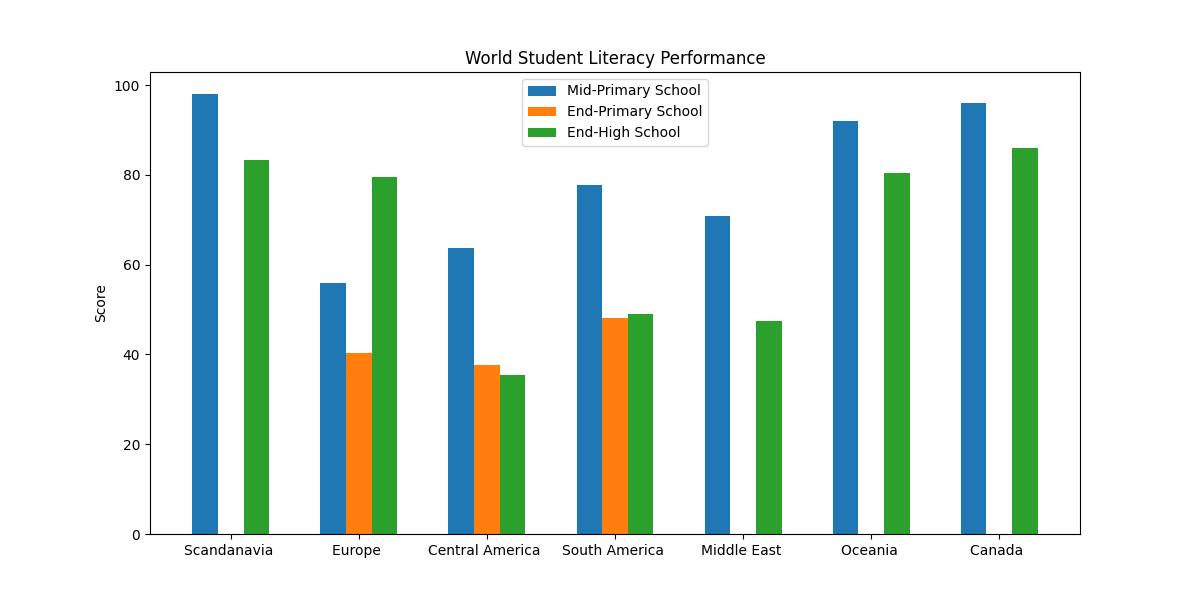
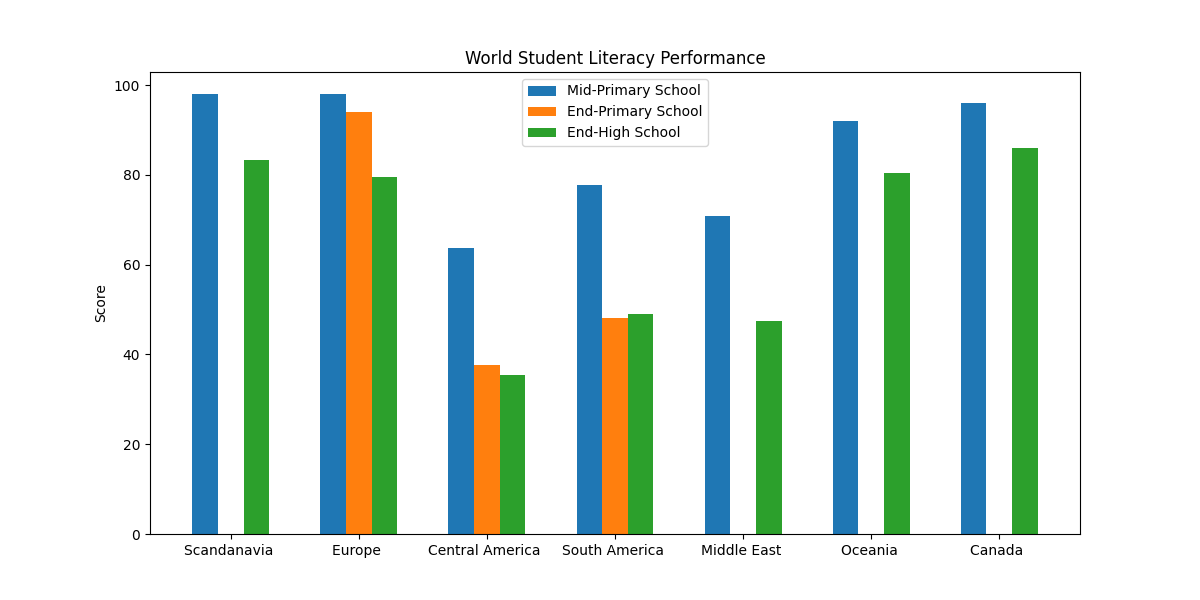
9/8

Changed region(s): [[0.2467, 0.15, 0.3083, 0.6]]

diff --git a/visualisations.py b/visualisations.py
@@ -289,106 +289,101 @@ values4_can = df.iloc[rows_can, 6].iloc[0]  # scalar
 # ------ AVG REGIONAL SCORES 
 
 # SCANDANAVIA
-total_values1_scan = values1_scan.sum()
-country_count = len(rows_scan)
-avg_total_values1_scan = total_values1_scan / country_count
+values1_scan_clean = values1_scan.replace(0, np.nan)
+avg_total_values1_scan = values1_scan_clean.mean(skipna=True)
 
-total_values2_scan = values2_scan.sum()
-avg_total_values2_scan = total_values2_scan / country_count
+values2_scan_clean = values2_scan.replace(0, np.nan)
+avg_total_values2_scan = values2_scan_clean.mean(skipna=True)
 
-total_values3_scan = values3_scan.sum()
-avg_total_values3_scan = total_values3_scan / country_count
+values3_scan_clean = values3_scan.replace(0, np.nan)
+avg_total_values3_scan = values3_scan_clean.mean(skipna=True)
 
-total_values4_scan = values4_scan.sum()
-avg_total_values4_scan = total_values4_scan / country_count
+values4_scan_clean = values4_scan.replace(0, np.nan)
+avg_total_values4_scan = values4_scan_clean.mean(skipna=True)
 
 # EUROPE
-total_values1_eu = values1_eu.sum()
-country_count = len(rows_eu)
-avg_total_values1_eu = total_values1_eu / country_count
 
-total_values2_eu = values2_eu.sum()
-avg_total_values2_eu = total_values2_eu / country_count
+values1_eu_clean = values1_eu.replace(0, np.nan)
+avg_total_values1_eu = values1_eu_clean.mean(skipna=True)
 
-total_values3_eu = values3_eu.sum()
-avg_total_values3_eu = total_values3_eu / country_count
+values2_eu_clean = values2_eu.replace(0, np.nan)
+avg_total_values2_eu = values2_eu_clean.mean(skipna=True)
 
-total_values4_eu = values4_eu.sum()
-avg_total_values4_eu = total_values4_eu / country_count
+values3_eu_clean = values3_eu.replace(0, np.nan)
+avg_total_values3_eu = values3_eu_clean.mean(skipna=True)
 
-total_values5_eu = values5_eu.sum()
-avg_total_values5_eu = total_values5_eu / country_count
+values4_eu_clean = values4_eu.replace(0, np.nan)
+avg_total_values4_eu = values4_eu_clean.mean(skipna=True)
 
-total_values6_eu = values6_eu.sum()
-avg_total_values6_eu = total_values6_eu / country_count
+values5_eu_clean = values5_eu.replace(0, np.nan)
+avg_total_values5_eu = values5_eu_clean.mean(skipna=True)
+
+values6_eu_clean = values6_eu.replace(0, np.nan)
+avg_total_values6_eu = values6_eu_clean.mean(skipna=True)
 
 # CENTRAL AMERICA
-total_values1_ca = values1_ca.sum()
-country_count = len(rows_ca)
-avg_total_values1_ca = total_values1_ca / country_count
+values1_ca_clean = values1_ca.replace(0, np.nan)
+avg_total_values1_ca = values1_ca_clean.mean(skipna=True)
 
-total_values2_ca = values2_ca.sum()
-avg_total_values2_ca = total_values2_ca / country_count
+values2_ca_clean = values2_ca.replace(0, np.nan)
+avg_total_values2_ca = values2_ca_clean.mean(skipna=True)
 
-total_values3_ca = values3_ca.sum()
-avg_total_values3_ca = total_values3_ca / country_count
+values3_ca_clean = values3_ca.replace(0, np.nan)
+avg_total_values3_ca = values3_ca_clean.mean(skipna=True)
 
-total_values4_ca = values4_ca.sum()
-avg_total_values4_ca = total_values4_ca / country_count
+values4_ca_clean = values4_ca.replace(0, np.nan)
+avg_total_values4_ca = values4_ca_clean.mean(skipna=True)
 
-total_values5_ca = values5_ca.sum()
-avg_total_values5_ca = total_values5_ca / country_count
+values5_ca_clean = values5_ca.replace(0, np.nan)
+avg_total_values5_ca = values5_ca_clean.mean(skipna=True)
 
-total_values6_ca = values6_ca.sum()
-avg_total_values6_ca = total_values6_ca / country_count
+values6_ca_clean = values6_ca.replace(0, np.nan)
+avg_total_values6_ca = values6_ca_clean.mean(skipna=True)
 
 # SOUTH AMERICA
-total_values1_sa = values1_sa.sum()
-country_count = len(rows_sa)
-avg_total_values1_sa = total_values1_sa / country_count
+values1_sa_clean = values1_sa.replace(0, np.nan)
+avg_total_values1_sa = values1_sa_clean.mean(skipna=True)
 
-total_values2_sa = values2_sa.sum()
-avg_total_values2_sa = total_values2_sa / country_count
+values2_sa_clean = values2_sa.replace(0, np.nan)
+avg_total_values2_sa = values2_sa_clean.mean(skipna=True)
 
-total_values3_sa = values3_sa.sum()
-avg_total_values3_sa = total_values3_sa / country_count
+values3_sa_clean = values3_sa.replace(0, np.nan)
+avg_total_values3_sa = values3_sa_clean.mean(skipna=True)
 
-total_values4_sa = values4_sa.sum()
-avg_total_values4_sa = total_values4_sa / country_count
+values4_sa_clean = values4_sa.replace(0, np.nan)
+avg_total_values4_sa = values4_sa_clean.mean(skipna=True)
 
-total_values5_sa = values5_sa.sum()
-avg_total_values5_sa = total_values5_sa / country_count
+values5_sa_clean = values5_sa.replace(0, np.nan)
+avg_total_values5_sa = values5_sa_clean.mean(skipna=True)
 
-total_values6_sa = values6_sa.sum()
-avg_total_values6_sa = total_values6_sa / country_count
+values6_sa_clean = values6_sa.replace(0, np.nan)
+avg_total_values6_sa = values6_sa_clean.mean(skipna=True)
 
 # MIDDLE EAST
-total_values1_me = values1_me.sum()
-country_count = len(rows_me)
-avg_total_values1_me = total_values1_me / country_count
+values1_me_clean = values1_me.replace(0, np.nan)
+avg_total_values1_me = values1_me_clean.mean(skipna=True)
 
-total_values2_me = values2_me.sum()
-avg_total_values2_me = total_values2_me / country_count
+values2_me_clean = values2_me.replace(0, np.nan)
+avg_total_values2_me = values2_me_clean.mean(skipna=True)
 
-total_values3_me = values3_me.sum()
-avg_total_values3_me = total_values3_me / country_count
+values3_me_clean = values3_me.replace(0, np.nan)
+avg_total_values3_me = values3_me_clean.mean(skipna=True)
 
-total_values4_me = values4_me.sum()
-avg_total_values4_me = total_values4_me / country_count
+values4_me_clean = values4_me.replace(0, np.nan)
+avg_total_values4_me = values4_me_clean.mean(skipna=True)
 
 # OCEANIA
-total_values1_oc = values1_oc.sum()
-country_count = len(rows_oc)
-avg_total_values1_oc = total_values1_oc / country_count
+values1_oc_clean = values1_oc.replace(0, np.nan)
+avg_total_values1_oc = values1_oc_clean.mean(skipna=True)
 
-total_values2_oc = values2_oc.sum()
-avg_total_values2_oc = total_values2_oc / country_count
+values2_oc_clean = values2_oc.replace(0, np.nan)
+avg_total_values2_oc = values2_oc_clean.mean(skipna=True)
 
-total_values3_oc = values3_oc.sum()
-avg_total_values3_oc = total_values3_oc / country_count
+values3_oc_clean = values3_oc.replace(0, np.nan)
+avg_total_values3_oc = values3_oc_clean.mean(skipna=True)
 
-total_values4_oc = values4_oc.sum()
-avg_total_values4_oc = total_values4_oc / country_count
+values4_oc_clean = values4_oc.replace(0, np.nan)
+avg_total_values4_oc = values4_oc_clean.mean(skipna=True)
 
 # ----- WORLD LITERACY 
 
